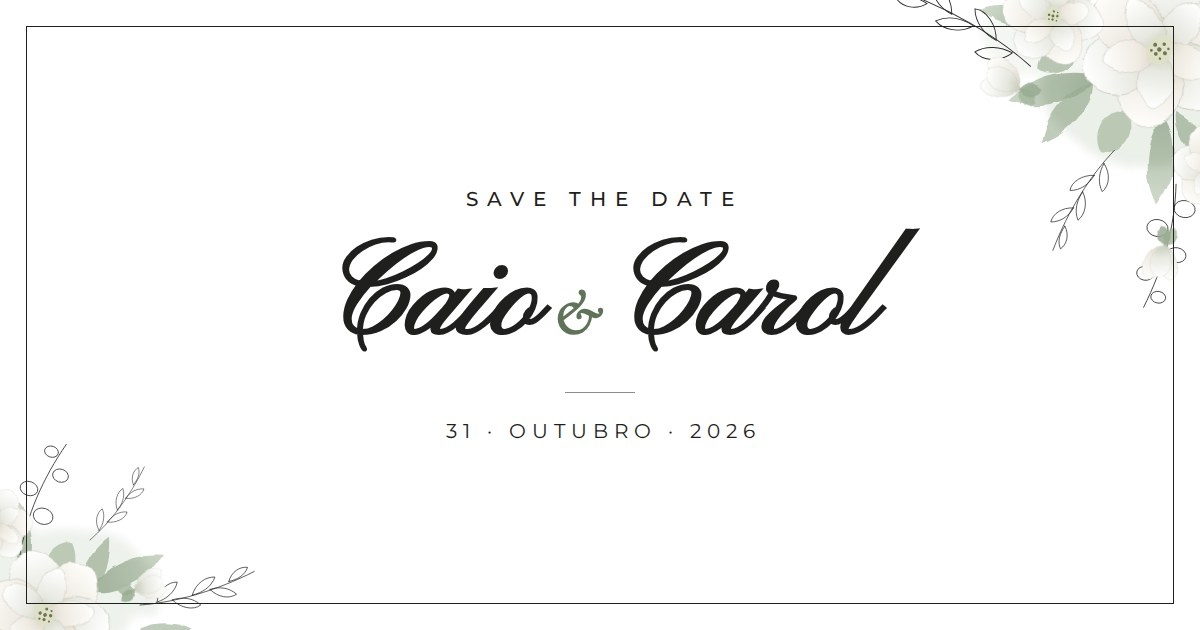
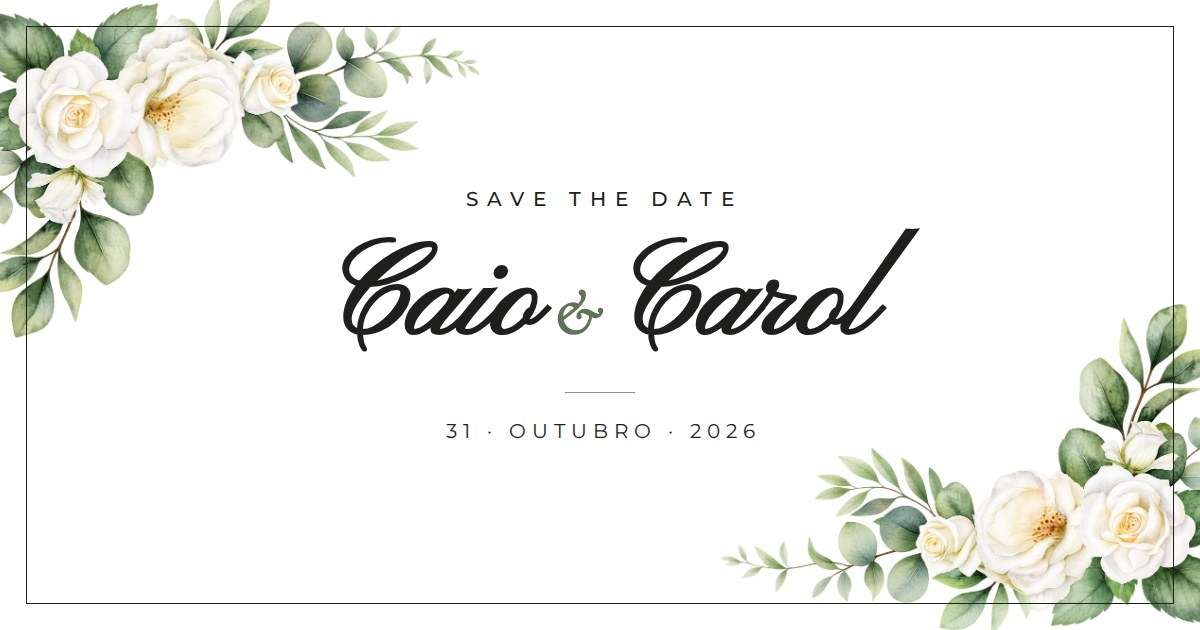
Usa as flores em aquarela enviadas e define a URL do site
- Buquês de rosas brancas e desenhos em traço fino em WebP
- Metatags Open Graph apontando para caio-e-carol.vercel.app
- Imagem de prévia refeita com os novos buquês

Claude-Session: https://claude.ai/code/session_01PcZDSfmjS4YbkTJXqMvhj6

diff --git a/index.html b/index.html
@@ -9,18 +9,17 @@
 
   <!-- ============================================================
        PRÉVIA DE COMPARTILHAMENTO (WhatsApp, Instagram, Facebook)
-       ⚠ PREENCHER: troque https://SEU-SITE.vercel.app pela URL
-       definitiva do site nas 3 linhas marcadas abaixo.
-       O WhatsApp só mostra a imagem se o endereço for completo (https://...).
+       Endereço do site: https://caio-e-carol.vercel.app
+       (se trocar de domínio, atualize as linhas com esse endereço)
        ============================================================ -->
   <meta property="og:type" content="website">
   <meta property="og:locale" content="pt_BR">
   <meta property="og:site_name" content="Caio &amp; Carol">
   <meta property="og:title" content="Você recebeu um convite especial de Caio e de Carol">
   <meta property="og:description" content="Save the Date · 31 de outubro de 2026 · Toque para abrir o convite e confirmar sua presença.">
-  <meta property="og:url" content="https://SEU-SITE.vercel.app/">                         <!-- ⚠ PREENCHER -->
-  <meta property="og:image" content="https://SEU-SITE.vercel.app/assets/og-image.jpg">    <!-- ⚠ PREENCHER -->
-  <meta property="og:image:secure_url" content="https://SEU-SITE.vercel.app/assets/og-image.jpg"> <!-- ⚠ PREENCHER -->
+  <meta property="og:url" content="https://caio-e-carol.vercel.app/">
+  <meta property="og:image" content="https://caio-e-carol.vercel.app/assets/og-image.jpg">
+  <meta property="og:image:secure_url" content="https://caio-e-carol.vercel.app/assets/og-image.jpg">
   <meta property="og:image:type" content="image/jpeg">
   <meta property="og:image:width" content="1200">
   <meta property="og:image:height" content="630">
@@ -28,7 +27,7 @@
   <meta name="twitter:card" content="summary_large_image">
   <meta name="twitter:title" content="Você recebeu um convite especial de Caio e de Carol">
   <meta name="twitter:description" content="Save the Date · 31 de outubro de 2026">
-  <meta name="twitter:image" content="https://SEU-SITE.vercel.app/assets/og-image.jpg">   <!-- ⚠ PREENCHER -->
+  <meta name="twitter:image" content="https://caio-e-carol.vercel.app/assets/og-image.jpg">
 
   <link rel="icon" href="assets/favicon.svg" type="image/svg+xml">
   <link rel="apple-touch-icon" href="assets/apple-touch-icon.png">
@@ -40,8 +39,10 @@
 <body>
   <main class="pagina">
     <article class="convite" aria-label="Convite de casamento de Caio e Carol">
-      <img class="flores flores--topo" src="assets/flores-topo.svg" alt="" aria-hidden="true">
-      <img class="flores flores--base" src="assets/flores-base.svg" alt="" aria-hidden="true">
+      <img class="flores traco traco--ramo" src="assets/ramo-traco.webp" alt="" aria-hidden="true">
+      <img class="flores traco traco--rosa" src="assets/rosa-traco.webp" alt="" aria-hidden="true">
+      <img class="flores buque buque--topo" src="assets/buque-topo.webp" alt="" aria-hidden="true" fetchpriority="high">
+      <img class="flores buque buque--base" src="assets/buque-base.webp" alt="" aria-hidden="true">
 
       <div class="conteudo">
         <p class="save">Save the Date</p>

diff --git a/styles.css b/styles.css
@@ -35,6 +35,7 @@ body {
 
 /* ---------- cartão ---------- */
 .convite {
+  --largura: min(460px, 100vw);
   position: relative;
   width: 100%;
   max-width: 460px;
@@ -62,15 +63,29 @@ body {
   user-select: none;
   z-index: 2;
 }
-.flores--topo {
-  width: 74%;
-  top: -2%;
-  right: -7%;
-}
-.flores--base {
-  width: 66%;
-  bottom: -3%;
+/* buquês de aquarela nos cantos opostos */
+.buque--topo {
+  width: 80%;
+  top: 0;
   left: -6%;
+}
+.buque--base {
+  width: 80%;
+  bottom: 0;
+  right: -6%;
+}
+
+/* desenhos botânicos em traço fino */
+.traco { z-index: 1; opacity: .85; }
+.traco--ramo {
+  width: 30%;
+  top: 34px;
+  right: 30px;
+}
+.traco--rosa {
+  width: 19%;
+  bottom: 40px;
+  left: 30px;
 }
 
 .conteudo {
@@ -82,7 +97,7 @@ body {
   align-items: center;
   justify-content: center;
   text-align: center;
-  padding: 150px 40px 140px;
+  padding: calc(var(--largura) * .47) 40px calc(var(--largura) * .47);
 }
 
 /* ---------- tipografia ---------- */
@@ -101,7 +116,7 @@ body {
   font-weight: 400;
   font-size: clamp(58px, 17vw, 80px);
   line-height: .95;
-  margin: 22px 0 18px;
+  margin: 16px 0 12px;
   display: flex;
   flex-direction: column;
   align-items: center;
@@ -218,7 +233,7 @@ body {
   .pagina { padding: 0; }
   .convite { min-height: 100dvh; box-shadow: none; }
   .convite::before { inset: 12px; }
-  .conteudo { padding: 128px 24px 120px; }
+  .conteudo { padding-left: 24px; padding-right: 24px; }
   .botao { padding: 14px 16px; }
 }
 

diff --git a/og/og-template.html b/og/og-template.html
@@ -7,8 +7,8 @@
   body{width:1200px;height:630px;background:#fff;position:relative;overflow:hidden;font-family:"Cormorant Garamond",serif;color:#1f1f1d}
   .moldura{position:absolute;inset:26px;border:1.5px solid #1f1f1d}
   .fl{position:absolute}
-  .topo{width:470px;top:-40px;right:-60px}
-  .base{width:420px;bottom:-60px;left:-50px}
+  .topo{width:520px;top:-6px;left:-40px}
+  .base{width:520px;bottom:-6px;right:-40px}
   .c{position:absolute;inset:0;display:flex;flex-direction:column;align-items:center;justify-content:center;text-align:center}
   .save{font-family:Montserrat,sans-serif;font-weight:500;font-size:20px;letter-spacing:.45em;margin-right:-.45em;text-transform:uppercase}
   .nomes{font-family:"Pinyon Script",cursive;font-size:132px;line-height:1.1;margin:18px 0 10px}
@@ -17,8 +17,8 @@
   .linha{width:70px;height:1px;background:#1f1f1d;opacity:.5;margin:8px 0 26px}
 </style></head>
 <body>
-  <img class="fl topo" src="../assets/flores-topo.svg" alt="">
-  <img class="fl base" src="../assets/flores-base.svg" alt="">
+  <img class="fl topo" src="../assets/buque-topo.webp" alt="">
+  <img class="fl base" src="../assets/buque-base.webp" alt="">
   <div class="moldura"></div>
   <div class="c">
     <p class="save">Save the Date</p>

diff --git a/README.md b/README.md
@@ -2,16 +2,13 @@
 
 Site estático (HTML + CSS + JS), sem banco de dados nem integrações. Pronto para a Vercel.
 
-## ⚠ Campos para preencher
+## Configurações
 
 | O quê | Onde |
 |---|---|
-| Número do WhatsApp que recebe as confirmações | `config.js` → `whatsapp: ""` (ex.: `"5511987654321"`) |
-| URL definitiva do site | `index.html` → troque **todas** as ocorrências de `https://SEU-SITE.vercel.app` (4 linhas marcadas com `⚠ PREENCHER`) |
-
-Enquanto o número estiver vazio, o botão ainda funciona: o WhatsApp abre com a mensagem escrita e pede para o convidado escolher o contato.
-
-A mensagem pronta também pode ser editada em `config.js`.
+| Número do WhatsApp que recebe as confirmações | `config.js` → `whatsapp` (atual: `554198706820`) |
+| Mensagem pronta | `config.js` → `mensagem` |
+| Endereço do site (prévia do link) | `index.html` → linhas com `https://caio-e-carol.vercel.app` |
 
 ## Publicar na Vercel
 
@@ -27,12 +24,16 @@ A mensagem pronta também pode ser editada em `config.js`.
 - O WhatsApp guarda a prévia em cache. Teste com um link que você **ainda não enviou**. Se precisar forçar a atualização, envie o link com `?v=2` no final.
 - Para conferir antes de enviar: https://www.opengraph.xyz ou o Sharing Debugger do Facebook.
 
-## Trocar as flores pelos seus elementos
+## Flores
 
-As flores estão em `assets/flores-topo.svg` (canto superior direito) e `assets/flores-base.svg` (canto inferior esquerdo).
-Para usar os seus PNGs com fundo transparente, salve-os em `assets/` e troque o `src` das duas tags `<img class="flores ...">` em `index.html`. Posição e tamanho são ajustados em `styles.css` (`.flores--topo` e `.flores--base`).
+Elementos em aquarela e traço fino (PNG com fundo transparente, convertidos para WebP para carregar rápido no celular):
 
-A imagem de prévia é gerada a partir de `og/og-template.html`. Se você trocar as flores, gere a imagem de novo (print de 1200×630) ou monte uma no seu editor com o mesmo tamanho e salve como `assets/og-image.jpg`.
+- `assets/buque-topo.webp`: buquê do canto superior esquerdo
+- `assets/buque-base.webp`: buquê do canto inferior direito
+- `assets/ramo-traco.webp` e `assets/rosa-traco.webp`: desenhos em traço fino
+
+Posição e tamanho ficam em `styles.css` (`.buque--topo`, `.buque--base`, `.traco--ramo`, `.traco--rosa`).
+A imagem de prévia (`assets/og-image.jpg`) é gerada a partir de `og/og-template.html`.
 
 ## Estrutura
 
